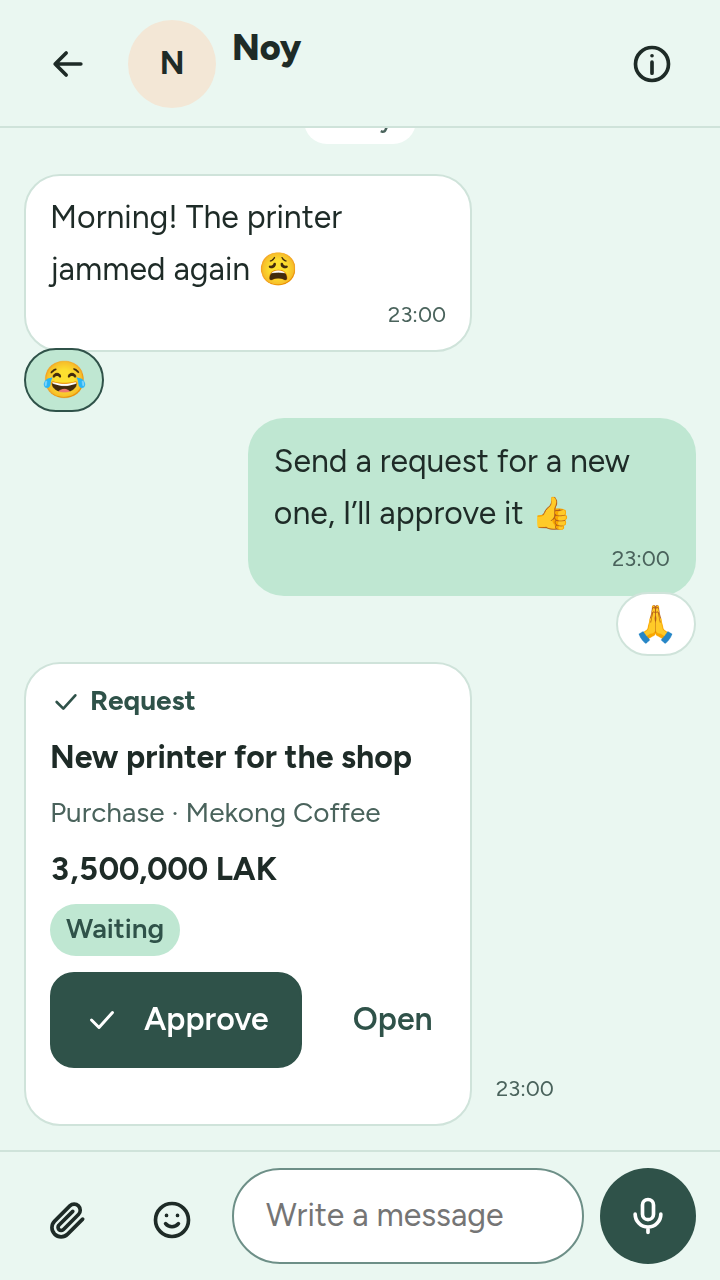
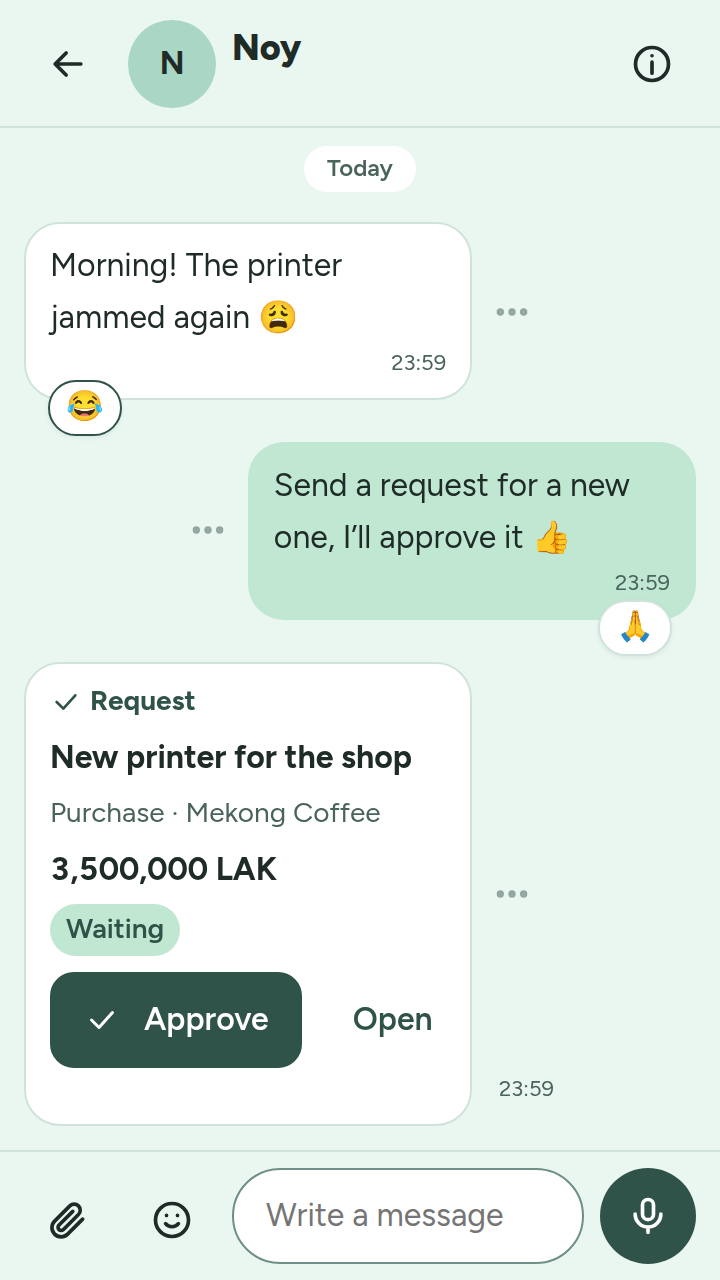
Approvals post: new chat screenshots and text for the floating reactions
The chat now shows reactions as a badge on the message's edge, floats the
emoji bar and options over the chat on a long press, and opens the emoji
panel in place of the phone's keyboard (LohnCC #75, released).

diff --git a/content/notes/lohncc-approvals-and-apps/index.md b/content/notes/lohncc-approvals-and-apps/index.md
@@ -37,14 +37,14 @@ Approvals are a feature each space switches on. The owner and admins now have a 
 
 ## Chat: reactions, emoji and videos
 
-- **Reactions.** Long-press a message and choose 👍 ❤ 😂 😮 😢 🙏, or any other emoji. Each person has one reaction per message. Tap the reactions to see who reacted.
-- **Emoji.** An emoji button in the message box opens every emoji by group, with your recent ones first and a search.
+- **Reactions.** Long-press a message: the chat dims, the emoji float just above the message and its options just below. Choose 👍 ❤ 😂 😮 😢 🙏, or any other emoji. Each person has one reaction per message. Reactions show as a small badge on the message's edge; tap it to see who reacted.
+- **Emoji.** An emoji button in the message box opens every emoji by group, with your recent ones first and a search. On a phone the panel takes the keyboard's place, and a keyboard button switches back.
 - **Camera.** On a phone, Attach → Camera opens the phone's camera for a photo or a video. Videos of up to 100 MB play inside the chat when you tap them. LohnCC redraws photos to remove the location stored in them, but it sends videos as they are. A video can still hold where it was recorded, and the Privacy Policy says so.
 - **A notifications inbox** behind a bell keeps notifications for 90 days, except new chat messages, which stay in the chats.
 - **Files on devices.** Photos, files and voice messages stay on the server only until everyone in the chat has them, 30 days at most. After that they live on the phones that saved them, and anyone can save one to their phone.
 - **Calls.** On a computer you can now choose where the sound goes, such as the speakers or a headset. I also fixed a bug where the caller's screen kept showing "Calling…" after the call was answered. A web page can't switch a phone between its earpiece and loudspeaker, so a Speaker button will come with the Android app.
 
-{{< phones srcs="emoji.png, inbox.png, features.png" alts="The emoji panel open below a chat, with Thank you and a smiling face with hearts typed in the message box | The notifications inbox with one notification: Noy asks for your approval in Mekong Coffee | A space's Features page with Requests and approvals turned on and All members allowed to send requests" caption="The emoji panel, the notifications inbox, and a space's features. Example data." >}}
+{{< phones srcs="emoji.png, inbox.png, features.png" alts="The emoji panel open where the phone's keyboard was, with Thank you and a smiling face with hearts typed in the message box | The notifications inbox with one notification: Noy asks for your approval in Mekong Coffee | A space's Features page with Requests and approvals turned on and All members allowed to send requests" caption="The emoji panel, the notifications inbox, and a space's features. Example data." >}}
 
 ## Login with LohnCC
 
